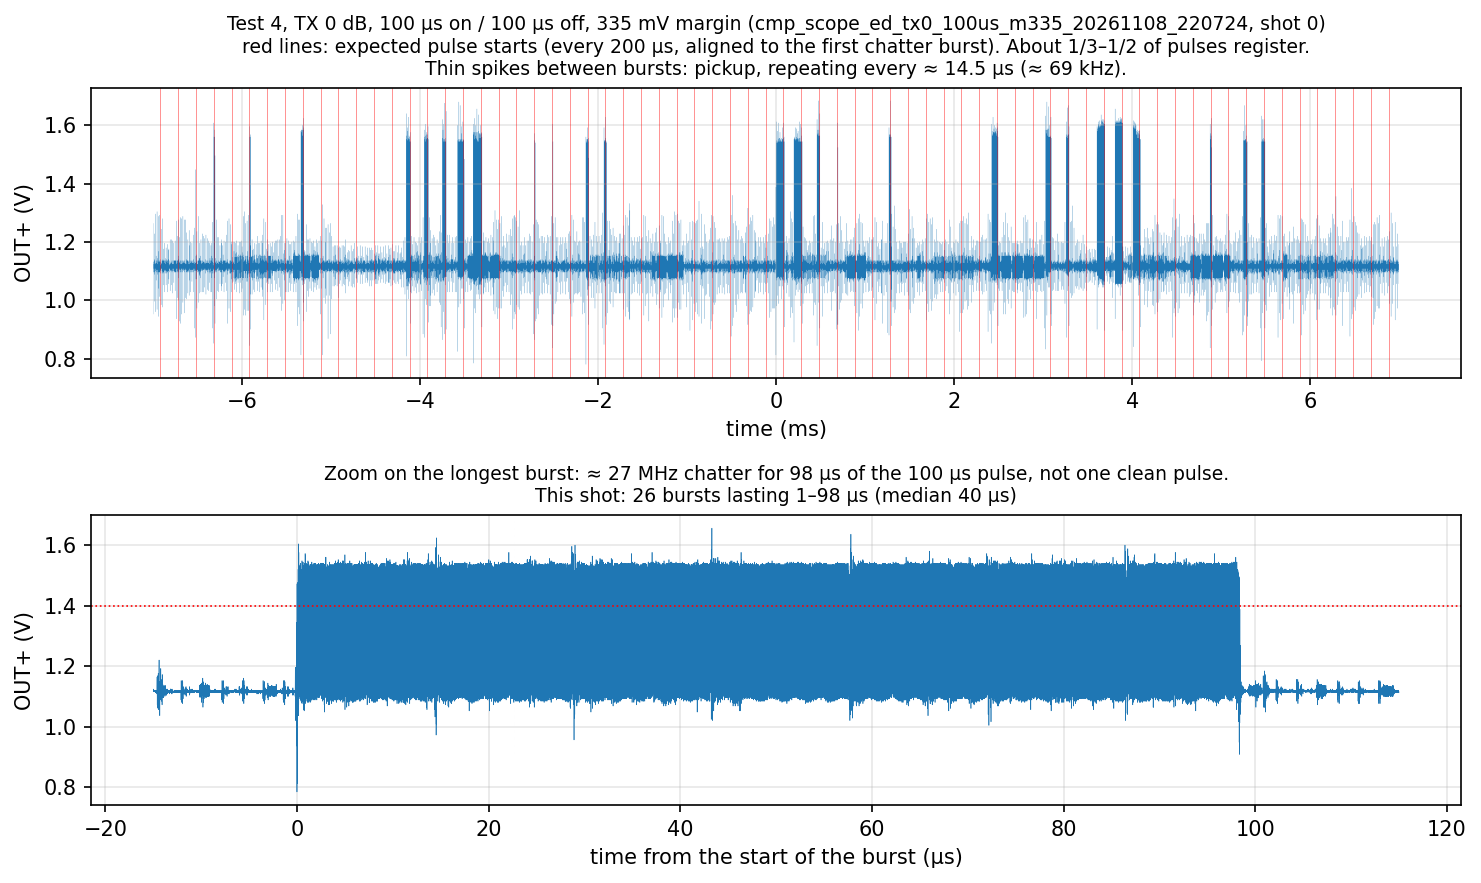
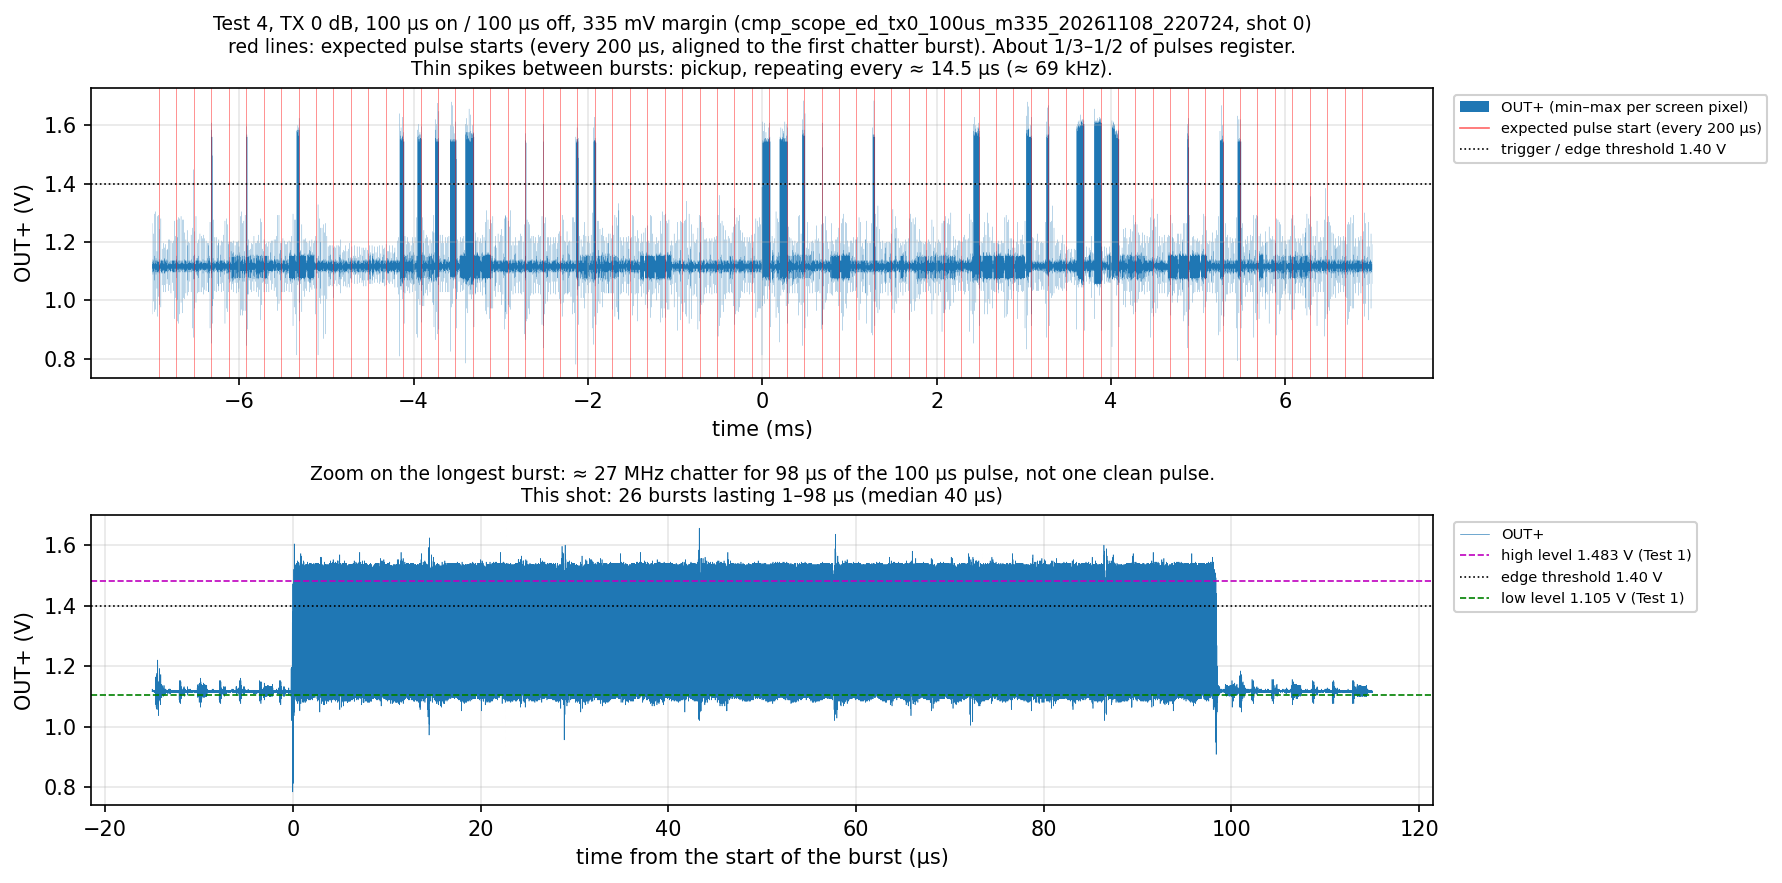
plot_cmp.py: plain-language titles, axes and legends on all four plots
Teammate feedback: too many acronyms, no legend on the scope plot,
unclear units on the edge-rate plot. Also adds plot 4 with legends.

Claude-Session: https://claude.ai/code/session_017P4jFAMtzk48Vj3qbRXvMo

diff --git a/envelope_detector/plot_cmp.py b/envelope_detector/plot_cmp.py
@@ -102,13 +102,14 @@ def plot_trip():
         up = [i for i, r in enumerate(pts) if r["phase"] in ("coarse", "fine_up")]
         upo = sorted(up, key=lambda i: x[i])
         ax.plot(x[upo], y[upo], "-", lw=1, color=line.get_color(),
-                label=f"IN− = {meta['vn']:.3f} V (J1 = setting {1e3 * off:+.1f} mV)")
+                label=f"threshold set to {meta['vn']:.3f} V")
     ax.axvline(0, color="k", lw=0.8)
-    ax.axvspan(-5, 5, color="0.85", zorder=0, label="±5 mV offset spec [DS Table 1]")
-    ax.set_xlabel("IN+ − IN−  (mV, at the pins; from CGR setting + DMM-measured J1 offset)")
-    ax.set_ylabel("OUT+ on CGR Input B\n(0 = low, 1 = high; CGR averages, 5 MHz)")
-    ax.set_title("Test 2: OUT+ is undecided over ≈ ±45 mV, centred near 0 mV\n"
-                 "(5 Nov, 100 Ω source; in-between = ≈ 27 MHz oscillation averaged by the CGR)")
+    ax.axvspan(-5, 5, color="0.85", zorder=0, label="datasheet: should flip within ±5 mV of 0")
+    ax.set_xlabel("input voltage minus threshold voltage (mV)")
+    ax.set_ylabel("comparator output, averaged\n(0 = always off, 1 = always on)")
+    ax.set_title("Slow input sweep past the threshold (Test 2, 5 Nov). An ideal comparator jumps 0 → 1 at 0 mV.\n"
+                 "This one is 'undecided' from ≈ −45 to +45 mV: it flickers on/off ≈ 27 million times/s, "
+                 "and the slow meter sees the average.", fontsize=9)
     ax.set_ylim(-0.1, 1.15)
     ax.grid(alpha=0.3)
     ax.legend(fontsize=7, loc="upper left")
@@ -121,7 +122,8 @@ def plot_trip():
 MARGIN_BY_LABEL = {"rf_off": 17.2, "rf_off_m50": 54.8, "rf_off_m110": 110.6, "rf_off_m110_ch1": 110.6}
 STALE = {"20261108_211314"}  # scope probably not re-armed: discarded in the results sheet
 # Runs that never triggered write no summary row; add them by hand (results sheet).
-NO_TRIGGER = [(560, "coax; CH1 cable on the tee"), (300, "coax; CH1 cable on the tee")]
+NO_TRIGGER = [(560, "shielded cable + extra scope cable on the input"),
+              (300, "shielded cable + extra scope cable on the input")]
 
 
 def margin_of(label):
@@ -133,10 +135,10 @@ def margin_of(label):
 
 def group_of(row):
     if row["time"] < "20261108_211300":
-        return "grabber lead + CH1 probe on the IN+ tee"
+        return "unshielded clip lead on the comparator input"
     if "_B" in row["label"] or row["time"] >= "20261108_215600":  # round B onwards: CH1 cable removed
-        return "coax only (tee joins detector and J1)"
-    return "coax; CH1 cable on the tee"
+        return "shielded cable only"
+    return "shielded cable + extra scope cable on the input"
 
 
 def plot_rfoff():
@@ -157,24 +159,26 @@ def plot_rfoff():
             groups.setdefault(group_of(r), []).append((mv, rate))
     floor = 0.3
     fig, ax = plt.subplots(figsize=(8, 4.8))
-    markers = {"grabber lead + CH1 probe on the IN+ tee": "s", "coax; CH1 cable on the tee": "o",
-               "coax only (tee joins detector and J1)": "^"}
+    markers = {"unshielded clip lead on the comparator input": "s",
+               "shielded cable + extra scope cable on the input": "o", "shielded cable only": "^"}
     for g, pts in groups.items():
         pts = np.array(pts)
         ax.plot(pts[:, 0], np.maximum(pts[:, 1], floor), markers.get(g, "o"), ms=7, alpha=0.8, label=g)
     for mv, g in NO_TRIGGER:
         ax.plot(mv, floor, markers.get(g, "o"), ms=9, mfc="none", mec="k")
-    ax.plot([], [], "o", mfc="none", mec="k", label="no trigger at all in 10 s")
+    ax.plot([], [], "o", mfc="none", mec="k", label="nothing at all in 10 s (completely quiet)")
     ax.axvline(20, color="r", ls="--", lw=1)
-    ax.text(22, 3e4, "planned\n+20 mV", color="r", fontsize=8, va="top")
+    ax.text(24, 2e3, "planned\nthreshold\n(+20 mV)", color="r", fontsize=8, va="top")
     ax.axhline(1, color="0.6", lw=0.8, ls=":")
-    ax.text(400, 1.3, "≤ 1 edge: interference blip only (quiet)", fontsize=7, color="0.4")
+    ax.text(380, 1.3, "at or below this line: quiet (a stray blip at most)", fontsize=7, color="0.4")
     ax.set_yscale("log")
     ax.set_ylim(floor * 0.7, 1e5)
-    ax.set_xlabel("threshold margin above the detector's resting level (mV)")
-    ax.set_ylabel("OUT+ rising edges per ms, RF off\n(plotted at 0.3 when zero)")
-    ax.set_title("Test 4: with RF off, the comparator oscillates unless the margin is ≈ 150–300 mV\n"
-                 "(8–9 Nov, clip-lead output wiring; 1 ms of oscillation ≈ 27–53 thousand edges)")
+    ax.set_xlabel("how far the threshold sits above the detector's no-signal voltage (mV)")
+    ax.set_ylabel("false 'pings' per millisecond\n(output on-switches with NO radar signal;\n"
+                  "log scale, zero drawn at 0.3)")
+    ax.set_title("No radar signal at all (Test 4, 8–9 Nov): every point above the dotted line is the comparator\n"
+                 "flickering by itself (≈ 27–53 thousand times per ms). It only goes quiet ≈ 150–300 mV above "
+                 "the detector's resting voltage.", fontsize=9)
     ax.grid(alpha=0.3, which="both")
     ax.legend(fontsize=7, loc="center right")
     save(fig, "2_rfoff_margin.png")
@@ -203,28 +207,31 @@ def plot_osc_vs_pickup():
         print("3: m68 / m335 captures not found, skipped")
         return
     fig, axes = plt.subplots(1, 2, figsize=(10, 3.8), sharey=True)
-    for ax, shot, title, half in ((axes[0], osc, "68 mV margin: real oscillation", 200e-9),
-                                  (axes[1], pick, "335 mV margin: the one 'edge' is a pickup burst", 800e-9)):
+    for ax, shot, title, half in ((axes[0], osc, "threshold 68 mV above the input:\nthe output flips on/off by itself "
+                                                  "(≈ 27 million times/s)", 200e-9),
+                                  (axes[1], pick, "threshold 335 mV above the input:\nthe output stays off; this blip is "
+                                                  "interference picked up by the wires", 800e-9)):
         if shot is None:
             ax.set_title(title + "\n(data not found)")
             continue
         t, v, fs, name = shot
-        c = int(np.argmax(v)) if "335" in title else len(v) // 2
+        c = int(np.argmax(v)) if ax is axes[1] else len(v) // 2
         n = int(half * fs)
         sl = slice(max(c - n, 0), min(c + n, len(v)))
         ax.plot((t[sl] - t[c]) * 1e9, v[sl], lw=0.8)
-        ax.set_title(f"{title}\n{name}", fontsize=9)
+        ax.set_title(title, fontsize=9)
         ax.set_xlabel("time (ns)")
         ax.grid(alpha=0.3)
     for ax in axes:
-        ax.axhline(OUT_LOW, color="g", lw=0.8, ls="--")
-        ax.axhline(OUT_HIGH, color="m", lw=0.8, ls="--")
-        ax.axhline(1.40, color="r", lw=0.8, ls=":")
-    axes[0].set_ylabel("OUT+ (V)")
-    axes[1].text(0.02, 0.97, "green: low 1.105 V   magenta: high 1.483 V   red: trigger 1.40 V\n"
-                 "pickup swings above AND below the low level; a real flip steps up to ≈ 1.48 V",
+        ax.axhline(OUT_HIGH, color="m", lw=0.8, ls="--", label="output 'on' level (1.483 V)")
+        ax.axhline(1.40, color="r", lw=0.8, ls=":", label="counting threshold (1.40 V)")
+        ax.axhline(OUT_LOW, color="g", lw=0.8, ls="--", label="output 'off' level (1.105 V)")
+    axes[0].set_ylabel("comparator output (V)")
+    axes[1].legend(fontsize=7, loc="upper left", bbox_to_anchor=(1.01, 1))
+    axes[1].text(1.03, 0.45, "A real 'on' switch steps UP\nto the 'on' level and back.\n"
+                 "Interference wiggles above\nAND below the 'off' level.",
                  transform=axes[1].transAxes, fontsize=7, va="top")
-    fig.suptitle("Scope (CH2 on J7, 10× probe), RF off, coax-only IN+", fontsize=10, y=1.06)
+    fig.suptitle("Oscilloscope on the comparator output, no radar signal (8 Nov)", fontsize=10, y=1.08)
     save(fig, "3_osc_vs_pickup.png")
 
 
@@ -267,38 +274,38 @@ def plot_pulses():
     above = first_burst(v, fs)
     fig, (a1, a2) = plt.subplots(2, 1, figsize=(12, 6))
     tt, lo, hi = envelope(t, v)
-    a1.fill_between(tt * 1e3, lo, hi, step="mid", lw=0, label="OUT+ (min–max per screen pixel)")
+    a1.fill_between(tt * 1e3, lo, hi, step="mid", lw=0, label="comparator output")
     if len(above):
         t_first = t[above[0]]
         k = np.arange(np.floor((t[0] - t_first) / 200e-6), np.ceil((t[-1] - t_first) / 200e-6) + 1)
         for tk in t_first + k * 200e-6:
             if t[0] <= tk <= t[-1]:
                 a1.axvline(tk * 1e3, color="r", lw=0.4, alpha=0.5)
-        a1.plot([], [], color="r", lw=0.8, alpha=0.6, label="expected pulse start (every 200 µs)")
-    a1.axhline(1.40, color="k", lw=0.8, ls=":", label="trigger / edge threshold 1.40 V")
+        a1.plot([], [], color="r", lw=0.8, alpha=0.6, label="where each radar-like pulse starts (every 200 µs)")
+    a1.axhline(1.40, color="k", lw=0.8, ls=":", label="counting threshold (1.40 V)")
     a1.legend(fontsize=7, loc="upper left", bbox_to_anchor=(1.01, 1), framealpha=0.9)
     a1.set_xlabel("time (ms)")
-    a1.set_ylabel("OUT+ (V)")
-    a1.set_title(f"Test 4, TX 0 dB, 100 µs on / 100 µs off, 335 mV margin ({name}, shot 0)\n"
-                 "red lines: expected pulse starts (every 200 µs, aligned to the first chatter burst). "
-                 "About 1/3–1/2 of pulses register.\nThin spikes between bursts: pickup, repeating "
-                 "every ≈ 14.5 µs (≈ 69 kHz).", fontsize=9)
+    a1.set_ylabel("comparator output (V)")
+    a1.set_title("Radar-like pulses into the detector (Test 4, 8 Nov): 100 µs on / 100 µs off, Pluto at full power, "
+                 "threshold 335 mV.\nIdeal: one clean 'on' per pulse at every red line. Seen: only ≈ 1/3–1/2 of "
+                 "pulses show up, and each is a burst of flicker.\n(Thin spikes in between = interference, "
+                 "repeating every ≈ 14.5 µs.)", fontsize=9)
     a1.grid(alpha=0.3)
     bursts = chatter_bursts(v, fs)
     if bursts:
         lens = [(b - a) / fs * 1e6 for a, b in bursts]
         a, b = max(bursts, key=lambda ab: ab[1] - ab[0])
         sl = slice(max(a - int(15e-6 * fs), 0), min(a + int(115e-6 * fs), len(v)))
-        a2.plot((t[sl] - t[a]) * 1e6, v[sl], lw=0.3, label="OUT+")
-        a2.set_title(f"Zoom on the longest burst: ≈ 27 MHz chatter for {(b - a) / fs * 1e6:.0f} µs of the "
-                     f"100 µs pulse, not one clean pulse.\nThis shot: {len(bursts)} bursts lasting "
-                     f"{min(lens):.0f}–{max(lens):.0f} µs (median {np.median(lens):.0f} µs)", fontsize=9)
-    a2.axhline(OUT_HIGH, color="m", lw=0.8, ls="--", label="high level 1.483 V (Test 1)")
-    a2.axhline(1.40, color="k", lw=0.8, ls=":", label="edge threshold 1.40 V")
-    a2.axhline(OUT_LOW, color="g", lw=0.8, ls="--", label="low level 1.105 V (Test 1)")
+        a2.plot((t[sl] - t[a]) * 1e6, v[sl], lw=0.3, label="comparator output")
+        a2.set_title(f"Zoom on one pulse: instead of switching on once, the output flips on/off ≈ 27 million "
+                     f"times/s for {(b - a) / fs * 1e6:.0f} µs.\nIn this capture: {len(bursts)} bursts, "
+                     f"lasting {min(lens):.0f}–{max(lens):.0f} µs (median {np.median(lens):.0f} µs)", fontsize=9)
+    a2.axhline(OUT_HIGH, color="m", lw=0.8, ls="--", label="output 'on' level (1.483 V)")
+    a2.axhline(1.40, color="k", lw=0.8, ls=":", label="counting threshold (1.40 V)")
+    a2.axhline(OUT_LOW, color="g", lw=0.8, ls="--", label="output 'off' level (1.105 V)")
     a2.legend(fontsize=7, loc="upper left", bbox_to_anchor=(1.01, 1), framealpha=0.9)
     a2.set_xlabel("time from the start of the burst (µs)")
-    a2.set_ylabel("OUT+ (V)")
+    a2.set_ylabel("comparator output (V)")
     a2.grid(alpha=0.3)
     fig.tight_layout()
     save(fig, "4_pulses_0dB.png")
